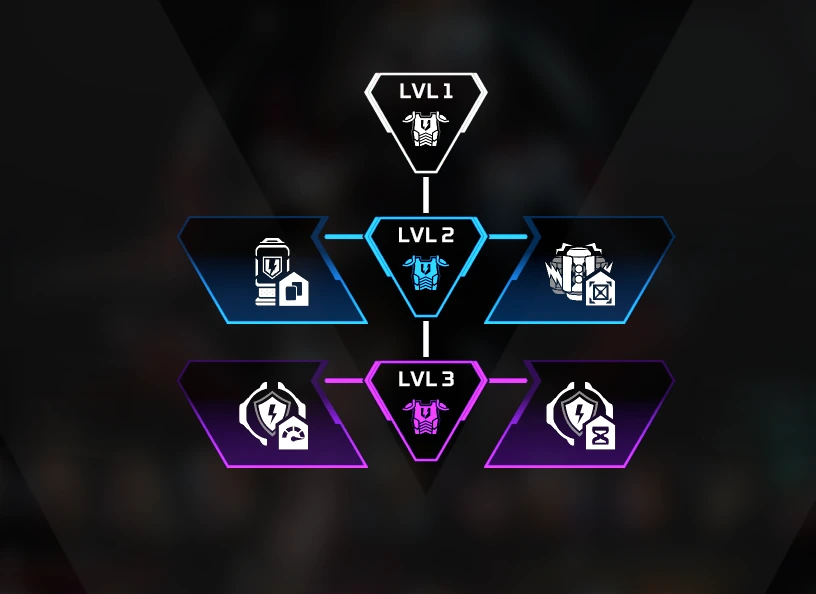
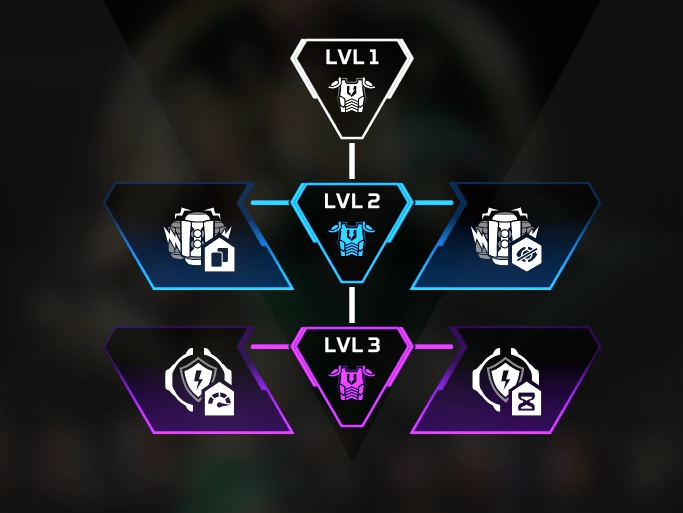
Updated to Apex Legends s31 Cipher changes, new upgrades for Crypto, Lifeline and Revenant

diff --git a/src/components/events/UpgradeLegends/Support/suppData.js b/src/components/events/UpgradeLegends/Support/suppData.js
@@ -6,15 +6,15 @@ export const CONDUIT_DATA = {
         {
             id: 1,
             zone: 'Zone1',
-            title: 'BATTPACK',
-            description: 'Stack up to 3 batteries per inventory slot.',
+            title: 'CONCURRENCY',
+            description: 'Refire Ultimate once with no cooldown within 10s. Spawns in a tighter formation with 2 less jammers.',
             tooltipPosition: { top: -10, left: -460 }
         },
         {
             id: 2,
             zone: 'Zone2',
-            title: 'BIGGER JAM',
-            description: 'Jammer damage radius increased by 20%.',
+            title: 'JAMMED UP',
+            description: 'Ultimate has a 25% larger radius and enemies damaged by it have their HUD jammed for 10s.',
             tooltipPosition: { top: -10, left: 100 }
         },
         {
@@ -78,29 +78,29 @@ export const LIFELINE_DATA = {
         {
             id: 1,
             zone: 'Zone1',
-            title: 'EXTENDED FLIGHT',
-            description: 'Increase time before D.O.C. runs out of fuel by 1.5s.',
+            title: 'IMPROVED FLIGHT',
+            description: 'Increase glide duration by 1.5s and improve flight control.',
             tooltipPosition: { top: -10, left: -460 }
         },
         {
             id: 2,
             zone: 'Zone2',
-            title: 'BATTPACK',
-            description: '+1 Battery per stack. See Battery Count in Death Boxes.',
+            title: 'ENHANCED RADIO',
+            description: 'Increased D.O.C. assignment range by 50%.',
             tooltipPosition: { top: -10, left: 100 }
         },
         {
             id: 3,
             zone: 'Zone3',
-            title: 'ENHANCED RADIO',
-            description: 'Increased D.O.C. assignment range by 50%.',
+            title: 'ULTIMATE COOLDOWN',
+            description: 'Reduce ultimate cooldown by 60s.',
             tooltipPosition: { top: 100, left: -460 }
         },
         {
             id: 4,
             zone: 'Zone4',
-            title: 'TACTICAL COOLDOWN+',
-            description: 'Reduce Tac cooldown by 10s.',
+            title: 'REVIVE SHIELD',
+            description: 'D.O.C. deploys a protective shield while reviving teammates.',
             tooltipPosition: { top: 100, left: 100 }
         }
     ]

diff --git a/src/components/events/UpgradeLegends/Assault/assaultData.js b/src/components/events/UpgradeLegends/Assault/assaultData.js
@@ -116,8 +116,8 @@ export const REVENANT_DATA = {
         {
             id: 1,
             zone: 'Zone1',
-            title: 'ULTIMATE COOLDOWN',
-            description: 'Reduce ultimate cooldown by 30 secs.',
+            title: 'EVERLASTING',
+            description: 'Increase Ultimate time by 10s after a knock.',
             tooltipPosition: { top: -10, left: -460 }
         },
         {
@@ -130,15 +130,15 @@ export const REVENANT_DATA = {
         {
             id: 3,
             zone: 'Zone3',
-            title: 'TACTICAL COOLDOWN',
-            description: 'Reduce tactical cooldown by 5s.',
+            title: 'SILENCE',
+            description: 'Silence AOE when landing from a Shadow Pounce.',
             tooltipPosition: { top: 100, left: -460 }
         },
         {
             id: 4,
             zone: 'Zone4',
-            title: 'AGILE ASSASSIN',
-            description: 'Total Shadow Pounce attack and charge time reduce by 50%.',
+            title: 'NO ESCAPE',
+            description: 'Tactical resets after marking an enemy.',
             tooltipPosition: { top: 100, left: 100 }
         }
     ]
@@ -159,15 +159,15 @@ export const FUSE_DATA = {
         {
             id: 2,
             zone: 'Zone2',
-            title: 'KNUCKLE JUMPER',
-            description: 'Jump near your tactical for a boost and a 50% cooldown recharge (destroys the cluster afterwards)',
+            title: 'REIGNITION',
+            description: 'Dealing explosive damage to enemies recharges your ultimate (for every 3 damage dealt, reduces cooldown by 1s).',
             tooltipPosition: { top: -10, left: 100 }
         },
         {
             id: 3,
             zone: 'Zone3',
-            title: 'REIGNITION',
-            description: 'Dealing explosive damage to enemies recharges your ultimate (for every 2 damage dealt, reduces cooldown by 1 second)',
+            title: 'BIG BANG',
+            description: 'Tactical\'s explosions cover a 50% larger area.',
             tooltipPosition: { top: 100, left: -460 }
         },
         {

diff --git a/src/components/events/UpgradeLegends/Controller/controllerData.js b/src/components/events/UpgradeLegends/Controller/controllerData.js
@@ -6,29 +6,29 @@ export const CATALYST_DATA = {
         {
             id: 1,
             zone: 'Zone1',
-            title: 'HIDDEN SPIKES',
-            description: 'Spike are hidden to enemies while inactive.',
+            title: 'FERRO-DOOR',
+            description: 'Fully rebuild and reinforce missing doors. Max reinforcements increase by 6.',
             tooltipPosition: { top: -10, left: -460 }
         },
         {
             id: 2,
             zone: 'Zone2',
-            title: 'SOLE PIERCER',
-            description: 'Spike traps activate 50% faster and deal 5 more damage per hit.',
+            title: 'RESILIENT VEIL',
+            description: 'Increase Ultimate lifetime by 5 seconds and decrease cooldown by 30s.',
             tooltipPosition: { top: -10, left: 100 }
         },
         {
             id: 3,
             zone: 'Zone3',
-            title: 'FERRO-DOOR',
-            description: 'Fully rebuild and reinforce missing doors.',
+            title: 'FERRO-FRENZY',
+            description: 'Gain +1 max Spikes. Spikes are smaller but deal faster tick damage.',
             tooltipPosition: { top: 100, left: -460 }
         },
         {
             id: 4,
             zone: 'Zone4',
-            title: 'RESILIENT VEIL',
-            description: 'Increase Ultimate lifetime by 5 seconds.',
+            title: 'HIDDEN SPIKES',
+            description: 'Spike are hidden to enemies while inactive.',
             tooltipPosition: { top: 100, left: 100 }
         }
     ]

diff --git a/src/components/events/UpgradeLegends/Recon/reconData.js b/src/components/events/UpgradeLegends/Recon/reconData.js
@@ -49,8 +49,8 @@ export const CRYPTO_DATA = {
         {
             id: 2,
             zone: 'Zone2',
-            title: 'ALLY.MOVETO()',
-            description: 'Crypto places a tracker on allies, allowing him to trailblaze to them.',
+            title: 'GOT EYES ON YOU',
+            description: 'Enemies are marked for 4s longer.',
             tooltipPosition: { top: -10, left: 100 }
         },
         {
@@ -63,8 +63,8 @@ export const CRYPTO_DATA = {
         {
             id: 4,
             zone: 'Zone4',
-            title: 'HACKATHON',
-            description: 'Double drone recharge rate; gain speed boost when it explodes. (EMP or destroyed)',
+            title: 'CHARGE UP',
+            description: 'Drone battery life is 10s longer.',
             tooltipPosition: { top: 100, left: 100 }
         }
     ]

diff --git a/README.md b/README.md
@@ -38,7 +38,9 @@ This will initialize the server and you can access the app in your browser with 
 
 *Updated S30 Marked*
 
-![image](https://github.com/user-attachments/assets/bee88c3f-afba-4182-bacf-48a71b574ed3=)
+![alt text](image.png)
+
+![image](https://github.com/user-attachments/assets/bee88c3f-afba-4182-bacf-48a71b574ed3)
 
 ![image](https://github.com/user-attachments/assets/fb0a6cee-034a-4adc-a595-41048db80fad)
 
